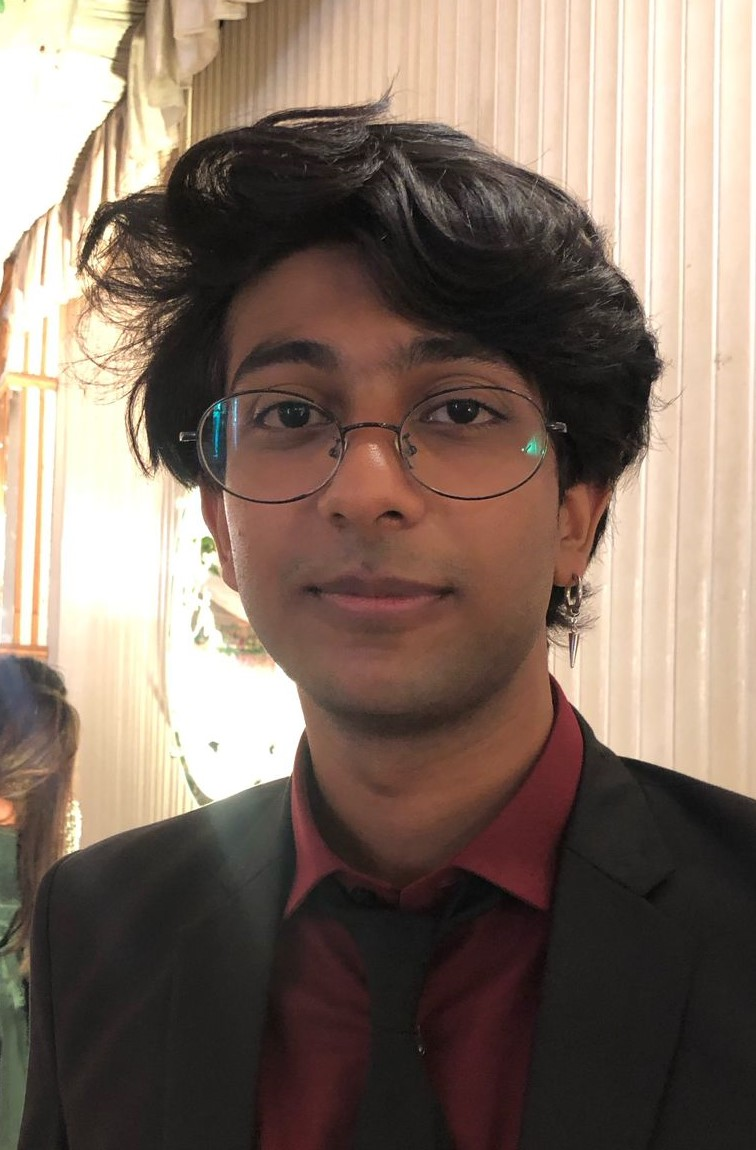
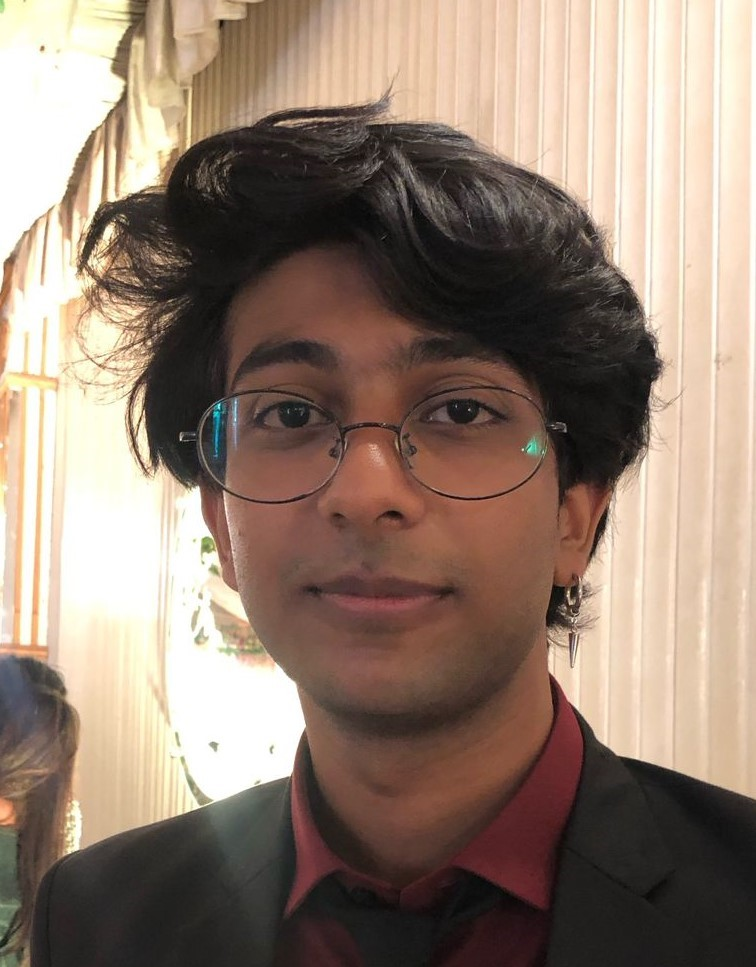
picture

diff --git a/src/components/About.tsx b/src/components/About.tsx
@@ -65,7 +65,7 @@ const About = () => {
             <div className="grid grid-cols-1 sm:grid-cols-2 gap-6">
               <div className="p-6 rounded-2xl bg-background/80 shadow-sm hover:shadow-md transition-all duration-300 opacity-0 animate-on-scroll">
                 <h3 className="text-xl font-semibold mb-2">Location</h3>
-                <p className="text-muted-foreground">Your Location</p>
+                <p className="text-muted-foreground">Karachi, Sindh, Pakistan</p>
               </div>
               <div className="p-6 rounded-2xl bg-background/80 shadow-sm hover:shadow-md transition-all duration-300 opacity-0 animate-on-scroll animate-delay-100">
                 <h3 className="text-xl font-semibold mb-2">Education</h3>
@@ -74,11 +74,11 @@ const About = () => {
               </div>
               <div className="p-6 rounded-2xl bg-background/80 shadow-sm hover:shadow-md transition-all duration-300 opacity-0 animate-on-scroll animate-delay-200">
                 <h3 className="text-xl font-semibold mb-2">Phone</h3>
-                <p className="text-muted-foreground">Your Phone Number</p>
+                <p className="text-muted-foreground">+92 332 2829893</p>
               </div>
               <div className="p-6 rounded-2xl bg-background/80 shadow-sm hover:shadow-md transition-all duration-300 opacity-0 animate-on-scroll animate-delay-300">
                 <h3 className="text-xl font-semibold mb-2">Email</h3>
-                <p className="text-muted-foreground">Your Email</p>
+                <p className="text-muted-foreground">shaikhdiyanali01@gmail.com</p>
               </div>
             </div>
             <div className="p-6 rounded-2xl bg-gradient-to-br from-primary/20 to-primary/5 shadow-sm hover:shadow-md transition-all duration-300 opacity-0 animate-on-scroll animate-delay-400">

diff --git a/src/components/Contact.tsx b/src/components/Contact.tsx
@@ -92,7 +92,7 @@ const Contact = () => {
                 </div>
                 <div>
                   <h4 className="font-semibold mb-1">Email</h4>
-                  <p className="text-muted-foreground">your.email@example.com</p>
+                  <p className="text-muted-foreground">shaikhdiyanali01@gmail.com</p>
                 </div>
               </div>
               
@@ -102,7 +102,7 @@ const Contact = () => {
                 </div>
                 <div>
                   <h4 className="font-semibold mb-1">Phone</h4>
-                  <p className="text-muted-foreground">+1 (123) 456-7890</p>
+                  <p className="text-muted-foreground">+92 332 829893</p>
                 </div>
               </div>
               
@@ -112,7 +112,7 @@ const Contact = () => {
                 </div>
                 <div>
                   <h4 className="font-semibold mb-1">Location</h4>
-                  <p className="text-muted-foreground">Your Location</p>
+                  <p className="text-muted-foreground">Karachi, Sindh, Pakistan</p>
                 </div>
               </div>
             </div>

diff --git a/src/components/Hero.tsx b/src/components/Hero.tsx
@@ -2,6 +2,7 @@
 import React, { useEffect, useRef } from "react";
 import { ArrowDown } from "lucide-react";
 import AnimatedText from "./ui/AnimatedText";
+import ProfilePicture from '../../public/gitlul.jpeg';
 
 const Hero = () => {
   const containerRef = useRef<HTMLDivElement>(null);
@@ -68,7 +69,8 @@ const Hero = () => {
           <div className="w-full md:w-2/5 opacity-0 animate-on-scroll animate-delay-400">
             <div className="relative">
               <div className="aspect-square rounded-2xl overflow-hidden bg-gradient-to-br from-primary/20 to-primary/10 flex items-center justify-center">
-                <div className="text-8xl font-display font-bold text-foreground/10">DS</div>
+                {/* <div className="text-8xl font-display font-bold text-foreground/10">DS</div> */}
+                <img src={ProfilePicture} className="w-[80%]  object-contain" />
               </div>
               <div className="absolute -bottom-6 -right-6 bg-background p-4 rounded-xl shadow-elevated">
                 <div className="flex items-center space-x-2">

diff --git a/src/components/Footer.tsx b/src/components/Footer.tsx
@@ -38,7 +38,7 @@ const Footer = () => {
           
           <div className="flex space-x-6">
             <a
-              href="https://github.com"
+              href="https://github.com/dasmain"
               target="_blank"
               rel="noopener noreferrer"
               aria-label="GitHub"
@@ -47,7 +47,7 @@ const Footer = () => {
               <Github size={20} />
             </a>
             <a
-              href="https://linkedin.com"
+              href="https://www.linkedin.com/in/diyan-ali-shaikh-8ba62a1b4/"
               target="_blank"
               rel="noopener noreferrer"
               aria-label="LinkedIn"
@@ -56,7 +56,7 @@ const Footer = () => {
               <Linkedin size={20} />
             </a>
             <a
-              href="mailto:email@example.com"
+              href="mailto:shaikhdiyanali@01.com"
               aria-label="Email"
               className="text-muted-foreground hover:text-foreground transition-colors"
             >

diff --git a/src/components/Navbar.tsx b/src/components/Navbar.tsx
@@ -27,9 +27,9 @@ const Navbar = () => {
   ];
 
   const socialLinks = [
-    { icon: Github, href: "https://github.com", label: "GitHub" },
-    { icon: Linkedin, href: "https://linkedin.com", label: "LinkedIn" },
-    { icon: Mail, href: "mailto:email@example.com", label: "Email" },
+    { icon: Github, href: "https://github.com/dasmain", label: "GitHub" },
+    { icon: Linkedin, href: "https://www.linkedin.com/in/diyan-ali-shaikh-8ba62a1b4/", label: "LinkedIn" },
+    { icon: Mail, href: "mailto:shaikhdiyanali01@gmail.com", label: "Email" },
   ];
 
   return (

diff --git a/src/components/Skills.tsx b/src/components/Skills.tsx
@@ -21,8 +21,8 @@ const skillCategories: SkillCategory[] = [
     skills: ["MongoDB", "SQL", "NoSQL", "Data Modeling"]
   },
   {
-    name: "DevOps & Tools",
-    skills: ["AWS", "Git", "CI/CD", "Docker"]
+    name: "DevOps/Tools",
+    skills: ["AWS", "Git", "CI/CD"]
   }
 ];
 

diff --git a/src/components/Experience.tsx b/src/components/Experience.tsx
@@ -25,7 +25,7 @@ const experiences: Job[] = [
     ]
   },
   {
-    company: "Dijinx",
+company: "Dijinx",
     role: "MERN Stack Developer",
     period: "September 2023 - July 2024",
     website: "https://www.dijinx.com",
